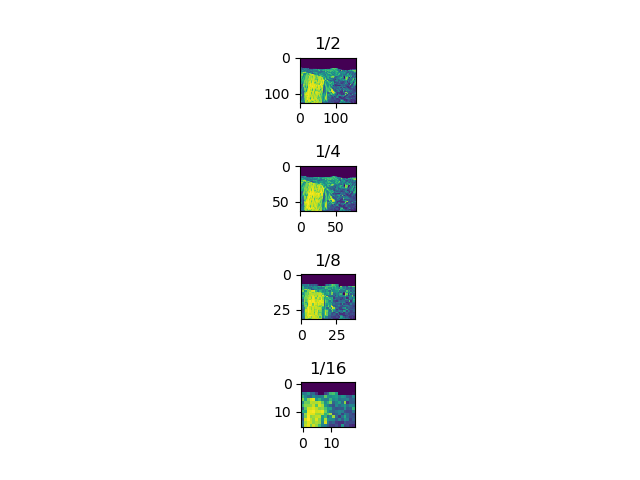
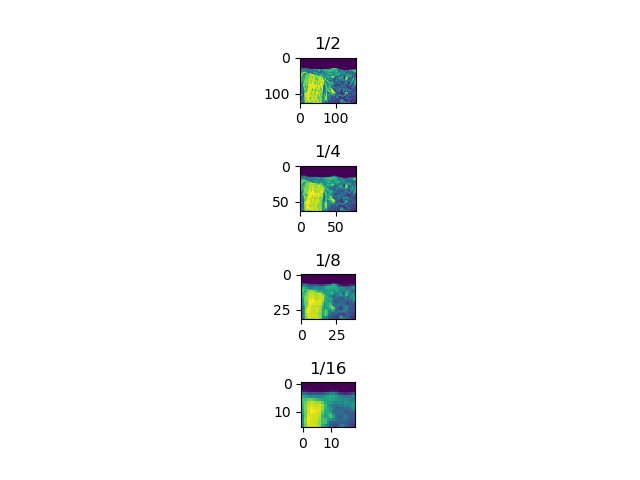
expand working

Changed region(s): [[0.4688, 0.8125, 0.5625, 0.9062], [0.4688, 0.5938, 0.5625, 0.6562], [0.4688, 0.375, 0.5312, 0.4375]]

diff --git a/ps5_python_Plokhovska_Zhanneta/ps5.py b/ps5_python_Plokhovska_Zhanneta/ps5.py
@@ -77,11 +77,30 @@ def normalize(img, distribute = True):
 		img = (img * (1/img.max()) * 255) # distribute values between 0 and 255
 	return img.astype('uint8')
 
-def gaussian_pyramid_reduce(img):
-	return img[::2, 1::2]
+def reduce(img):
+	rows, columns = img.shape
+	# img must always have odd number of rows and columns
+	if rows % 2 == 0:
+		# Add last row to img_reduced
+		np.concatenate((img, np.array([img[rows - 1, :]])), axis = 0)
+	if columns % 2 == 0:
+		# Add last column to img_reduced
+		np.concatenate((img, np.reshape([img[:, columns - 1]], (rows, 1))), axis = 1)
+	img = cv2.GaussianBlur(img, (5, 5), 0)
+	img_reduced = img[::2, 1::2] # select all odd rows
+	
+	return img_reduced
 
-def gaussian_pyramid_expand(img):
-	print "TODO"
+def expand(img):
+	rows, columns = img.shape
+	img_expanded = np.zeros((rows * 2 - 1, columns * 2 - 1)) # img must always have odd number of rows and columns
+	rows_expanded, columns_expanded = img_expanded.shape
+	for r in range(rows):
+		for c in range(columns):
+			img_expanded[r * 2, c * 2] = img[r, c]
+	img_expanded = cv2.GaussianBlur(img_expanded, (5, 5), 0)
+		
+	return img_expanded
 	
 def main():
 	if False:
@@ -146,15 +165,11 @@ def main():
 	yos1 = cv2.imread(os.path.join('input/DataSeq1', 'yos_img_01.jpg'), 0)
 	yos2 = cv2.imread(os.path.join('input/DataSeq1', 'yos_img_02.jpg'), 0)
 	yos3 = cv2.imread(os.path.join('input/DataSeq1', 'yos_img_03.jpg'), 0)
-	# Smooth images
-	yos1 = cv2.GaussianBlur(yos1, (5, 5), 0)
-	yos2 = cv2.GaussianBlur(yos2, (5, 5), 0)
-	yos3 = cv2.GaussianBlur(yos3, (5, 5), 0)
 	# Reduce images
-	yos1_reduced1 = gaussian_pyramid_reduce(yos1)
-	yos1_reduced2 = gaussian_pyramid_reduce(yos1_reduced1)
-	yos1_reduced3 = gaussian_pyramid_reduce(yos1_reduced2)
-	yos1_reduced4 = gaussian_pyramid_reduce(yos1_reduced3)
+	yos1_reduced1 = reduce(yos1)
+	yos1_reduced2 = reduce(yos1_reduced1)
+	yos1_reduced3 = reduce(yos1_reduced2)
+	yos1_reduced4 = reduce(yos1_reduced3)
 	# Save images
 	fig = plt.figure()
 	plt.subplot(711)
@@ -173,7 +188,26 @@ def main():
 	
 	# 2-B: Gaussian and Laplacian Pyramids - Expand
 	print "\n-----------------------2-B-----------------------"
-	
+	# Reduce images
+	yos1_expanded1 = expand(yos1_reduced4)
+	yos1_expanded2 = expand(yos1_expanded1)
+	yos1_expanded3 = expand(yos1_expanded2)
+	yos1_expanded4 = expand(yos1_expanded3)
+	# Save images
+	fig = plt.figure()
+	plt.subplot(711)
+	plt.imshow(yos1_expanded1);
+	plt.title('1/8')
+	plt.subplot(713)
+	plt.imshow(yos1_expanded2);
+	plt.title('1/4')
+	plt.subplot(715)
+	plt.imshow(yos1_expanded3);
+	plt.title('1/2')
+	plt.subplot(717)
+	plt.imshow(yos1_expanded4);
+	plt.title('1')
+	plt.savefig('output/ps5-2-b-1.png')	
 	
 if __name__ == "__main__":
 	main()
